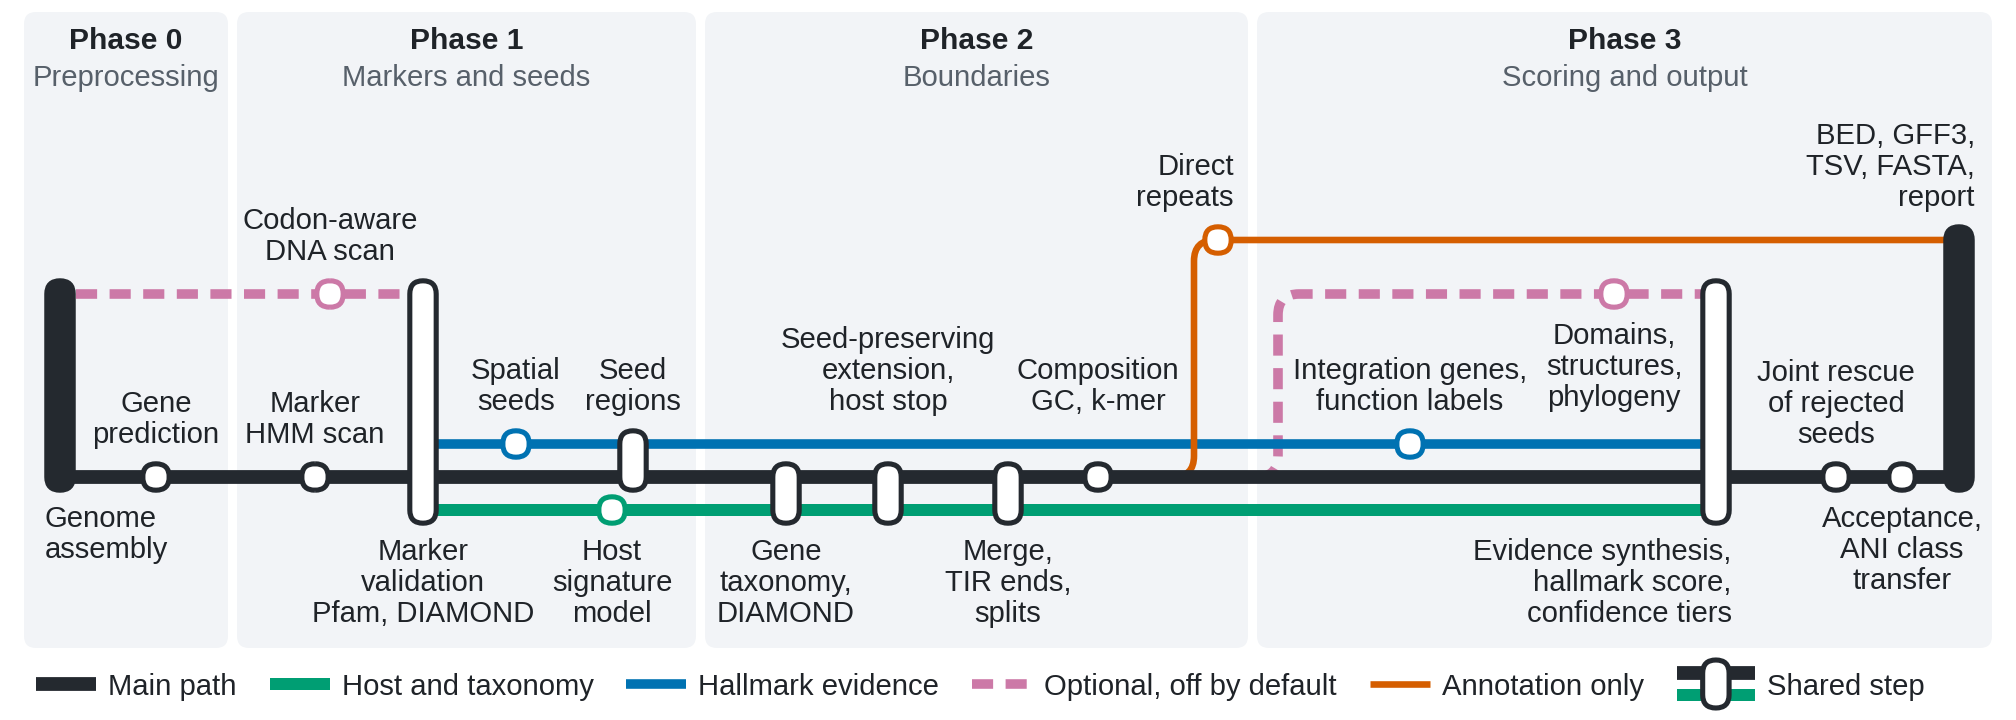
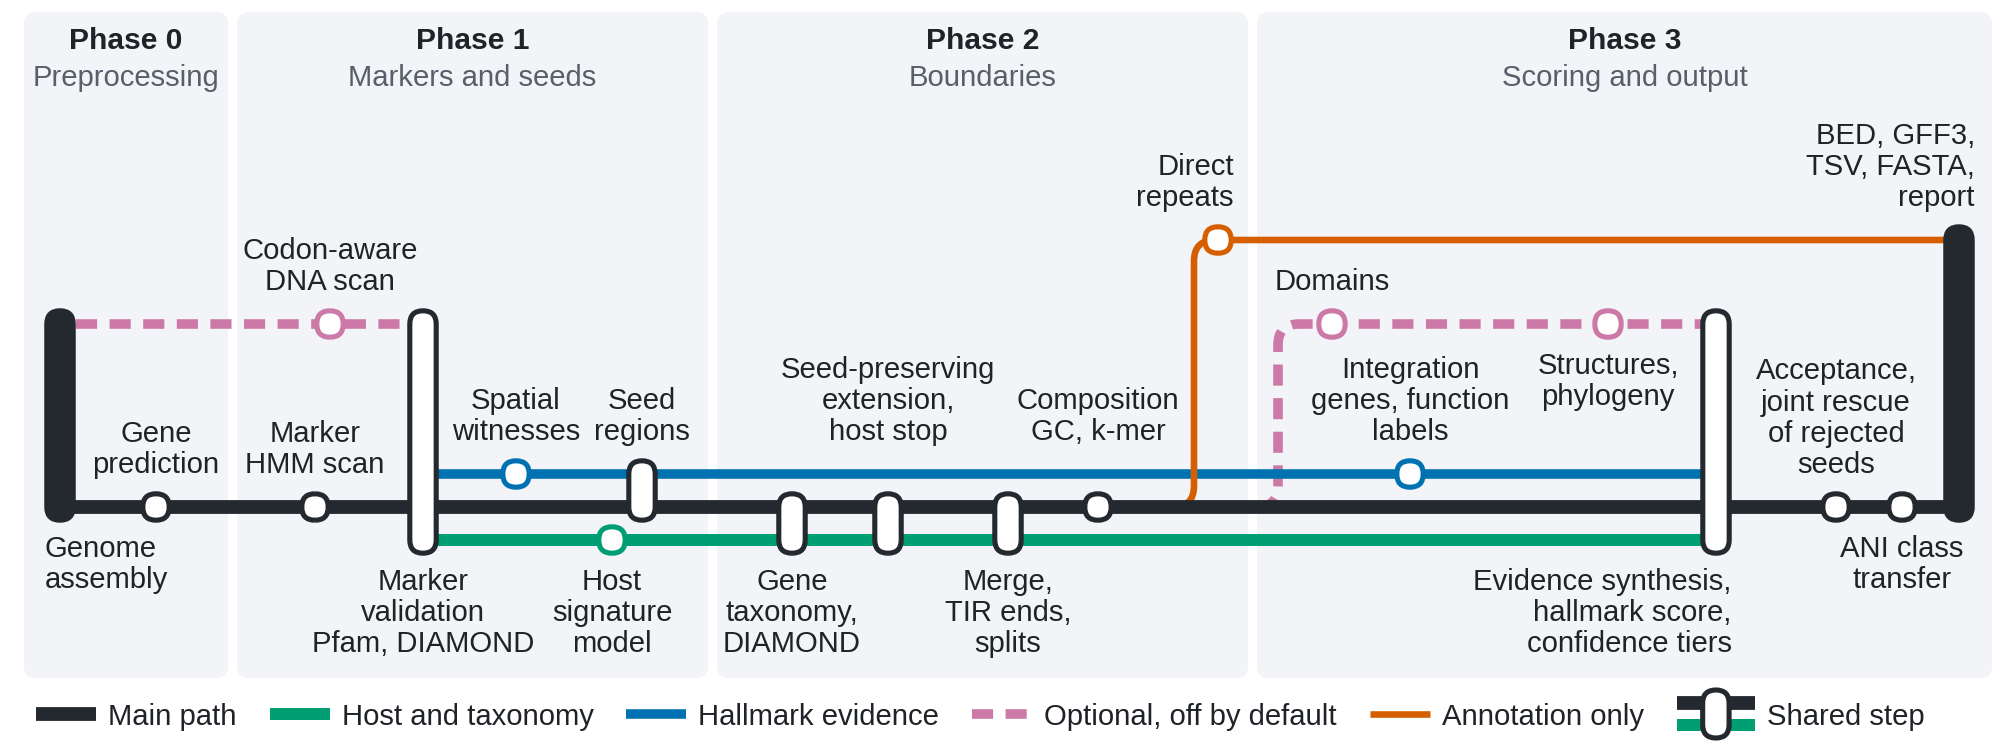
docs(scoring): correct claims after adversarial review
Fix the containment rule, validation prefixes, witness seeds, panel
tie, family vote, EUK and size penalties, and the module scope. Remove
the taxonomy-distribution bonuses from the active terms: the native flow
does not fill their inputs, so both stay at zero.

Reorder the map: domains precede integration annotation, and acceptance
runs with joint rescue before ANI transfer. Rename the early station
Spatial witnesses, and state current curation in the bundle page.

diff --git a/scripts/plot_workflow_map.py b/scripts/plot_workflow_map.py
@@ -43,7 +43,7 @@ DEFAULT_OUTPUT = Path(__file__).resolve().parents[1] / "docs" / "virosync_workfl
 README_WIDTH_PX = 830  # README column of GitHub in a desktop browser
 MIN_TEXT_PX = 12.0
 WIDTH_PT = 672.0
-HEIGHT_PT = 240.0
+HEIGHT_PT = 250.0
 DPI = 216  # three pixels per point, so whole-point sizes give whole pixels
 FONT = "Liberation Sans"
 LABEL_PT = 9.75
@@ -71,7 +71,7 @@ Y_MAIN = 81.0
 Y_HOST = Y_MAIN - 11.0
 Y_HALLMARK = Y_MAIN + 11.0
 Y_OPTIONAL = Y_MAIN + 61.0
-Y_ANNOTATION = Y_OPTIONAL + 18.0
+Y_ANNOTATION = Y_OPTIONAL + 28.0
 Y_LEGEND = 12.0
 ANNOTATION_RISER_X = 398.0
 OPTIONAL_RISER_X = 426.0
@@ -114,8 +114,8 @@ class Phase:
 
 PHASES = (
     Phase(0, "Preprocessing", 8.0, 76.0),
-    Phase(1, "Markers and seeds", 79.0, 232.0),
-    Phase(2, "Boundaries", 235.0, 416.0),
+    Phase(1, "Markers and seeds", 79.0, 236.0),
+    Phase(2, "Boundaries", 239.0, 416.0),
     Phase(3, "Scoring and output", 419.0, 664.0),
 )
 
@@ -166,19 +166,20 @@ STOPS = (
     Stop("Codon-aware\nDNA scan", 110.0, Y_OPTIONAL, Y_OPTIONAL, (OPTIONAL,), "above"),
     Stop("Marker\nHMM scan", 105.0, Y_MAIN, Y_MAIN, (MAIN,), "above"),
     VALIDATION,
-    Stop("Spatial\nseeds", 172.0, Y_HALLMARK, Y_HALLMARK, (HALLMARK,), "above"),
+    Stop("Spatial\nwitnesses", 172.0, Y_HALLMARK, Y_HALLMARK, (HALLMARK,), "above"),
     Stop("Host\nsignature\nmodel", 204.0, Y_HOST, Y_HOST, (HOST,), "below"),
-    Stop("Seed\nregions", 211.0, Y_MAIN, Y_HALLMARK, (MAIN, HALLMARK), "above", "interchange"),
-    Stop("Gene\ntaxonomy,\nDIAMOND", 262.0, Y_HOST, Y_MAIN, BOUNDARY_TRACKS, "below", "interchange"),
+    Stop("Seed\nregions", 214.0, Y_MAIN, Y_HALLMARK, (MAIN, HALLMARK), "above", "interchange"),
+    Stop("Gene\ntaxonomy,\nDIAMOND", 264.0, Y_HOST, Y_MAIN, BOUNDARY_TRACKS, "below", "interchange"),
     Stop("Seed-preserving\nextension,\nhost stop", 296.0, Y_HOST, Y_MAIN, BOUNDARY_TRACKS, "above", "interchange"),
     Stop("Merge,\nTIR ends,\nsplits", 336.0, Y_HOST, Y_MAIN, BOUNDARY_TRACKS, "below", "interchange"),
     Stop("Composition\nGC, k-mer", 366.0, Y_MAIN, Y_MAIN, (MAIN,), "above"),
     Stop("Direct\nrepeats", 406.0, Y_ANNOTATION, Y_ANNOTATION, (ANNOTATION,), "above", "dot", "right"),
-    Stop("Integration genes,\nfunction labels", 470.0, Y_HALLMARK, Y_HALLMARK, (HALLMARK,), "above"),
-    Stop("Domains,\nstructures,\nphylogeny", 538.0, Y_OPTIONAL, Y_OPTIONAL, (OPTIONAL,), "below"),
+    Stop("Integration\ngenes, function\nlabels", 470.0, Y_HALLMARK, Y_HALLMARK, (HALLMARK,), "above"),
+    Stop("Domains", 444.0, Y_OPTIONAL, Y_OPTIONAL, (OPTIONAL,), "above"),
+    Stop("Structures,\nphylogeny", 536.0, Y_OPTIONAL, Y_OPTIONAL, (OPTIONAL,), "below"),
     SYNTHESIS,
-    Stop("Joint rescue\nof rejected\nseeds", 612.0, Y_MAIN, Y_MAIN, (MAIN,), "above"),
-    Stop("Acceptance,\nANI class\ntransfer", 634.0, Y_MAIN, Y_MAIN, (MAIN,), "below"),
+    Stop("Acceptance,\njoint rescue\nof rejected\nseeds", 612.0, Y_MAIN, Y_MAIN, (MAIN,), "above"),
+    Stop("ANI class\ntransfer", 634.0, Y_MAIN, Y_MAIN, (MAIN,), "below"),
     OUTPUTS,
 )
 

diff --git a/tests/test_plot_workflow_map.py b/tests/test_plot_workflow_map.py
@@ -149,7 +149,7 @@ def test_riser_problems_ignore_a_line_below_the_bands() -> None:
     assert wm.riser_problems([route]) == []
 
 
-@pytest.mark.parametrize("label_start", ["Integration genes", "Spatial\nseeds"])
+@pytest.mark.parametrize("label_start", ["Integration\ngenes", "Spatial\nwitnesses"])
 def test_stops_on_the_hallmark_line_feed_scoring(label_start: str) -> None:
     assert _stop(label_start).tracks == (wm.HALLMARK,)
 
@@ -184,8 +184,8 @@ def test_layout_problems_accepts_the_shipped_map() -> None:
     ("label_start", "changes", "expected"),
     [
         ("Composition", {"x": 322.0}, "too close"),
-        ("Gene\ntaxonomy", {"x": 240.0}, "leaves phase 2"),
-        ("Domains", {"x": 552.0}, "nearer to"),
+        ("Gene\ntaxonomy", {"x": 244.0}, "leaves phase 2"),
+        ("Structures", {"x": 552.0}, "nearer to"),
     ],
 )
 def test_layout_problems_reports_a_misplaced_label(label_start: str, changes: dict, expected: str) -> None:

diff --git a/docs/reference/scoring.md b/docs/reference/scoring.md
@@ -5,42 +5,47 @@ acceptance gate. `final_confidence` is a rule-based score, not a calibrated
 probability. A confidence tier and acceptance are different decisions: a LOW
 candidate can be accepted, and a MEDIUM candidate can be rejected.
 
-All evidence is computed on the final retained coordinates. A gene counts only
-when it lies wholly inside the interval. [Outputs](../METHODS.md) defines the
-result files, and the [workflow map](https://github.com/NeLLi-team/virosync#workflow)
+All evidence is computed on the final retained coordinates. Catalogue hallmarks,
+support annotations and supplementary-module genes must lie wholly inside the
+interval. Gene-taxonomy and marker counts use interval overlap.
+[Outputs](../METHODS.md) defines the result files, and the [workflow map](https://github.com/NeLLi-team/virosync#workflow)
 shows where each step runs.
 
 ## Steps from marker to accepted EVE
 
-1. **Validate markers.** A marker HMM hit is `validated` when its protein has a
-   viral reference among its ten best DIAMOND matches at 25% identity or more.
-   A hit with no DIAMOND match can be `validated_novel` under separate HMM rules.
-   `supported` and `unvalidated` hits stay diagnostic and earn no credit below.
+1. **Validate markers.** A marker HMM hit is `validated` when one of its ten best
+   DIAMOND matches has the prefix `NCLDV`, `MIRUS`, `PLV`, `VP`, `PPV`, `CRESS` or
+   `EUK-pEVE` at 25% identity or more. `GVMAG` and `PHAGE` matches do not validate
+   a hit. A hit with no DIAMOND match can be `validated_novel` under separate HMM
+   rules. `supported` and `unvalidated` hits stay diagnostic and earn no credit
+   below.
 2. **Find spatial witnesses.** Validated hits at E ≤ 0.01 to catalogue core models
-   can form a witness (see [Spatial witnesses](#spatial-witnesses)). A witness
-   outside every ordinary seed becomes a seed of its own.
+   can form a witness (see [Spatial witnesses](#spatial-witnesses)). The widest
+   witnesses outside ordinary seeds become seeds; nested or identical ones add no
+   further seed.
 3. **Set the interval.** Phase 2 extends each seed and sets its boundaries. Scoring
    reads the result; it does not move the coordinates.
 4. **Collect context.** Interior integration genes and gene-function labels that
    the catalogue maps to a panel become support evidence at E ≤ 1e-5.
 5. **Assess hallmarks.** One compatible panel is selected and gives the marker
    score, the coherence bonus and a possible floor.
-6. **Assess the supplementary module.** The module asks whether at least three
-   independent genes support a stable NCLDV or MIRUS class.
+6. **Assess the supplementary module.** For each candidate that reaches
+   confidence scoring, the module asks whether at least three independent genes
+   support a stable NCLDV or MIRUS class.
 7. **Combine the components.** Weighted components, bonuses and penalties give a
    score, clipped to 0–0.99.
 8. **Apply caps, then floors.** Missing hallmark evidence caps the score, and
    qualified evidence sets a minimum.
 9. **Assign the tier.** HIGH is 0.7 or above, MEDIUM is 0.2 to below 0.7, and LOW
    is below 0.2.
-10. **Apply the acceptance gate.** The class and evidence decide whether the
-    candidate is kept.
+10. **Apply the acceptance gate and selection.** The class and evidence decide
+    whether a candidate is kept, and overlapping rescue and ordinary candidates are
+    arbitrated.
 11. **Reassess rejected neighbors.** One pass can join two adjacent rejected LOW
-    candidates and score the joined interval.
-12. **Select, cluster and filter.** Overlapping rescue and ordinary candidates are
-    arbitrated, accepted EVEs are clustered by ANI, an agreed MCP class can transfer
-    within a cluster, and candidates without viral evidence are removed unless a
-    marker-bearing relative or a spatial witness supports them.
+    candidates and score the joined interval. The gate and selection then run again.
+12. **Cluster and filter.** Accepted EVEs are clustered by ANI, an agreed MCP class
+    can transfer within a cluster, and candidates without viral evidence are
+    removed unless a marker-bearing relative or a spatial witness supports them.
 
 ## Hallmark assessment
 
@@ -54,7 +59,7 @@ family-to-protein matching enforces both limits. Repeated profiles of one family
 or several families on one protein, do not add cores.
 
 The panel with the most cores wins. Ties go to more strong cores, then capsid
-presence, then more compatible families, then panel name.
+presence, then more compatible families, then the panel name that sorts last.
 
 | Quantity | Rule |
 | --- | --- |
@@ -142,17 +147,17 @@ to 0.06 for two genes or fewer. It is off by default.
 | --- | --- | --- |
 | Domain agreement | Seed cluster 1 and InterProScan score ≥ 0.5 | +0.03 |
 | Boundary and composition | Boundary confidence ≥ 0.9 and composition ≥ 0.6 | +0.03 |
-| Family consistency | Region, taxonomy, marker and domain families agree | up to +0.05 |
-| Viral taxonomy distribution | Viral score ≥ 0.6 | min(0.15, (score − 0.4) × 0.5) |
-| Host divergence | Divergence from the host baseline ≥ 0.5 | min(0.20, 0.05 + (divergence − 0.5) × 0.3) |
+| Family consistency | Two region, taxonomy, marker or domain votes for one NCLDV, MIRUS or PPV family; three or more | +0.04; +0.05 |
 | Viral enrichment | Viral-gene fraction ≥ 0.15 | min(0.12, fraction × 0.4) |
 | Hallmark coherence | Compatible families beyond the first | See the table above |
 | Structural | Optional structural analysis | 0.15 × structural score |
-| EUK penalty | Genes with three high-identity eukaryotic hits and no viral hit | up to −0.12 |
-| Size penalty | One, two or three genes, without a strong capsid core | −0.15, −0.08 or −0.04 |
+| EUK penalty | Fraction of genes with three eukaryotic hits at 70% identity or more and no viral hit, × 0.20; or, above 80% high-identity eukaryotic genes and below 10% viral genes, that fraction × 0.12. The larger term applies | up to −0.12 |
+| Size penalty | One, two or three genes, without full capsid credit (capsid fraction 1) | −0.15, −0.08 or −0.04 |
 
-A viral taxonomy-distribution score of 0.4 or more reduces the EUK penalty by that
-score, with the reduction capped at 0.8.
+A family vote from taxonomy needs a dominant-family fraction of 0.25 or more, and a
+marker vote needs a positive marker-complement score. The scorer also holds
+taxonomy-distribution and host-divergence bonuses. The default flow does not
+produce their inputs, so both stay at zero.
 
 ### Caps and floors
 
@@ -172,15 +177,17 @@ Floors then raise the score:
 
 ### Supplementary module
 
-The module runs for every candidate and lifts only the zero-core cap and the LOW
-gate below. It adds no score term. A candidate is eligible when:
+The module runs for every candidate that reaches confidence scoring, and it lifts
+only the zero-core cap and the LOW gate below. It adds no score term. A candidate
+is eligible when:
 
 - The LOW and MEDIUM class resolvers agree on `NCLDV` or `MIRUS`.
 - At least three nonoverlapping genes inside the interval each have a retained
   hit of that class at 25% identity or more, E ≤ 1e-5 and query coverage of 50%
   or more per alignment.
 - The viral bitscore of each counted gene exceeds its best nuclear or prokaryotic
-  hit. Organelle hits are reported as ambiguity and are not comparators.
+  hit, when the gene has one. Organelle hits are reported as ambiguity and are not
+  comparators.
 
 ## Acceptance gate
 

diff --git a/docs/METHODS.md b/docs/METHODS.md
@@ -206,8 +206,8 @@ ViroSync accepted.
 
 `ppv_subtype` is `VP` or `PLV` only when subtype-specific marker evidence
 supports that label. A dot means unresolved or not applicable. An accepted
-`UNKNOWN` region requires support from an ANI cluster with a marker-bearing
-EVE; this support alone does not prove viral origin.
+`UNKNOWN` region requires a contained spatial witness or support from an ANI
+cluster with a marker-bearing EVE; this support alone does not prove viral origin.
 
 `EUK-pEVE` is a reference class, not a published class. It marks viral-like
 proteins that sit in eukaryotic genome assemblies (resource bundle v1.2.0 and
@@ -463,9 +463,10 @@ top-hit search and uses no filter.
 ### Seed markers
 
 An `EUK-pEVE` reference hit with at least 25% identity validates a marker like a
-viral reference. A marker with no DIAMOND match (`validated_novel`) can start a
-region only when its model is an MCP or gives
-[capsid evidence](#capsid-evidence).
+viral reference. Ordinary region assembly lets a marker with no DIAMOND match
+(`validated_novel`) start a region only when its model is an MCP or gives
+[capsid evidence](#capsid-evidence). Catalogue-qualified `validated_novel` core
+markers can also form a three-core spatial witness.
 
 A validated marker can start a candidate region unless its HMM model is a host
 kinase family: `VS000084`, `VS000087`, `VS000094`, `VS000191` and `VS000319`
@@ -498,10 +499,10 @@ fully contained records and witness memberships to each final boundary in their
 original order. Functional annotation uses the same boundary coordinates and
 the retained-marker index, including rescued frameshift genes.
 
-Each witness not wholly contained in an ordinary confirmed seed becomes a
-separate confirmed seed with a stable identity and its exact full-gene hull.
-Partial overlap does not trim either seed. A fully contained witness needs no
-duplicate seed. Ordinary seeds keep their original identities. The normal
+The widest witnesses not wholly contained in an ordinary confirmed seed become
+separate confirmed seeds with a stable identity and the exact full-gene hull.
+Partial overlap does not trim either seed. A witness contained in a seed or in
+another witness, or with an identical hull, adds no seed. Ordinary seeds keep their original identities. The normal
 extension, merge and repeat-partition rules preserve every assigned seed.
 
 ### Seed-preserving extension
@@ -981,13 +982,8 @@ clipped or ambiguous controls. `null_assessed` counts the usable offsets and
 `null_matches` counts those with a qualifying short match.
 These correlated comparisons summarize local matching frequency; they do not
 estimate independent boundary accuracy or a calibrated chance probability.
-A Phase-3 readmission that changes an endpoint retains its parent
-evidence and pair alternatives, marks that endpoint unassessed, clears the
-display representative and records `not_assessed_endpoint_changed` for the
-short-flank assessment. Its sidecar rows carry the final EVE identifier, while
-the assessed and parent coordinates continue to describe the source assessment.
-At unchanged retained TIR anchors, the matched sequence agrees with
-`tsd_sequence`.
+Joint rescue reassesses repeat evidence on its fixed hull. At retained TIR anchors,
+the matched sequence agrees with `tsd_sequence`.
 
 ### Interpreting integration signatures
 
@@ -1020,12 +1016,13 @@ an integration mechanism.
 
 ### Supplementary viral module
 
-The supplementary module runs for every candidate. It reads the retained full-ORF
+The supplementary module runs for every candidate that reaches confidence
+scoring. It reads the retained full-ORF
 genome-database taxonomy after the final coordinates are fixed. It requires the
 existing LOW and MEDIUM class resolvers to agree on NCLDV or MIRUS, then at
 least three nonoverlapping, fully contained physical genes supporting that exact
-reference prefix. The unchanged evidence-only family inference runs before
-scoring so both resolvers see the final family. Each gene needs a retained hit
+reference prefix. Evidence-only family inference runs before scoring so both
+resolvers see the final family. Each gene needs a retained hit
 with identity >=25%, E <=1e-5 and query coverage per HSP >=50%, with bitscore
 strictly above every retained non-organelle EUK/BAC/ARC hit. These competitors
 are not filtered by identity, E-value or coverage. A missing non-organelle
@@ -1086,7 +1083,7 @@ seed or accepted-call conflict blocks rescue. After full native reassessment,
 all passing proposals that share a child with another passing proposal are
 discarded. Unsupported neighbors do not block an otherwise eligible proposal.
 
-The unchanged R2 supplementary predicate must select three independent physical
+The supplementary module must select three independent physical
 genes, with at least one selected gene wholly inside each child's original
 confirmed cores. Only then may this assessment cross a support gap. Two
 separately supported multi-marker groups remain separate: both children must
@@ -1100,8 +1097,7 @@ A pair bracketing one child's validated marker evidence, excluding the other,
 with an endpoint between their validated marker spans blocks rescue. This
 endpoint may fall in padded core sequence; the veto never trims a core. A pair
 enclosing the whole hull does not. A missing, failed or pairing-capped scan blocks
-rescue. These checks introduce no new repeat, taxonomy, distance, or score
-threshold.
+rescue.
 
 Joint coordinates receive native classification, composition, repeat evidence,
 annotation, and verification again. Rejected children are replaced only when the

diff --git a/docs/RESOURCE_BUNDLE.md b/docs/RESOURCE_BUNDLE.md
@@ -13,14 +13,13 @@ profiles, and 190,562 taxonomy labels. The marker profiles include 33
 capsid-type curated function and give capsid evidence; `EVE_CAPSID_NOVEL_0029`
 is the only putative MCP.
 
-Changes from v1.1.0:
+Curation of this bundle:
 
 - Both DIAMOND databases are dereplicated within each genome. Exact repeats are
   removed first. DIAMOND 2.2.1 `cluster --approx-id 90 --member-cover 80` then
   groups the remaining proteins of each genome, and the longest member of each
-  cluster is kept. No proteins are merged across genomes. The marker database
-  falls from 3,867,592 to 2,917,745 proteins and the proteome database from
-  46,765,751 to 44,070,936.
+  cluster is kept. No proteins are merged across genomes. Dereplication leaves
+  2,917,745 marker proteins and 44,070,936 proteome proteins.
 - 1,258 proteome entries that copy prokaryotic contaminants removed from
   eukaryotic references in GVClass resource v2.1.0
   ([Zenodo](https://doi.org/10.5281/zenodo.23381313)) are removed with their
@@ -28,15 +27,13 @@ Changes from v1.1.0:
   coverage to an EUK-labelled entry of the same assembly. The marker database
   holds none of them.
 - The 3,011 eukaryote-labelled reference hits of the 33 structure-derived
-  profiles move from `EUK__<assembly>` to `EUK-pEVE__<assembly>` in both
-  databases, each with its cluster (1,031 marker and 1,892 proteome
-  representatives). Their label is the lineage of the assembly with every named
+  profiles carry the label `EUK-pEVE__<assembly>` in both databases, each with
+  its cluster (1,031 marker and 1,892 proteome representatives). Their label is the lineage of the assembly with every named
   rank suffixed `-pEVE`, for example `EUK-pEVE|Evosea-pEVE|...`, as in GVClass.
   ViroSync counts `EUK-pEVE` as viral and never as host (see
   [Methods](METHODS.md)).
-- Eukaryotic lineages are rewritten from NCBI ranks
-  (`scripts/harmonize_taxonomy_labels.py`, 2,839 rows changed), and 245
-  `EUK-pEVE` rows are added.
+- Eukaryotic lineages come from NCBI ranks
+  (`scripts/harmonize_taxonomy_labels.py`), and 245 rows carry `EUK-pEVE` lineages.
 - `models/gene_function.hmm` and `models/gene_function_labels.tsv` hold 412 Pfam
   and VOGDB profiles that label core genes.
 
